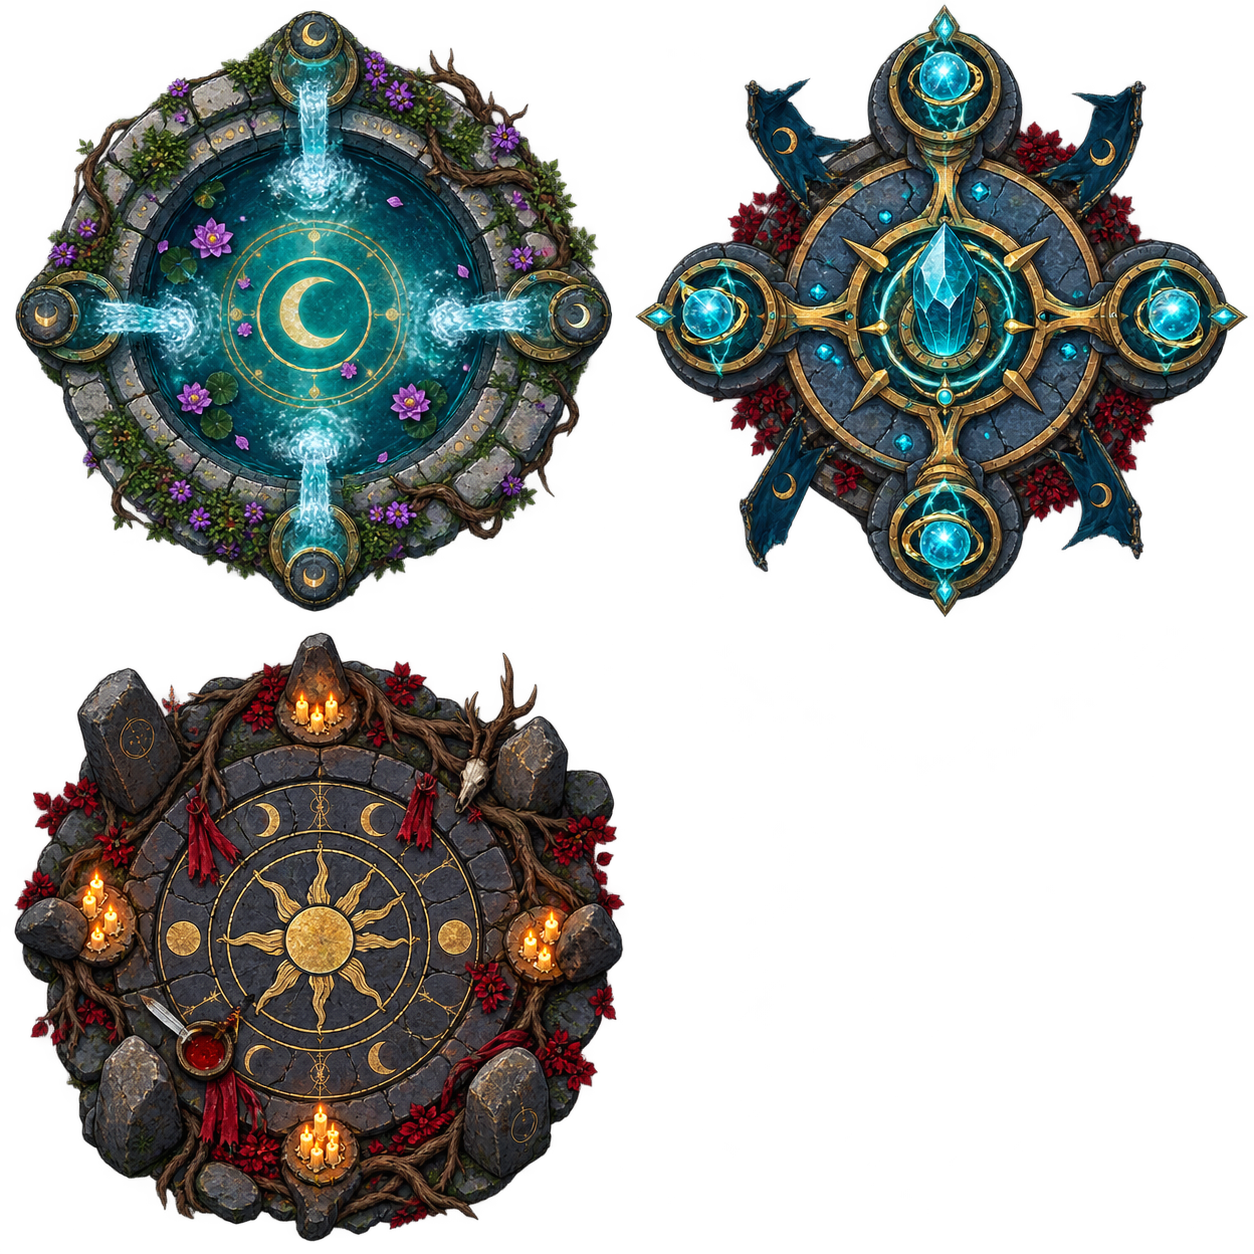
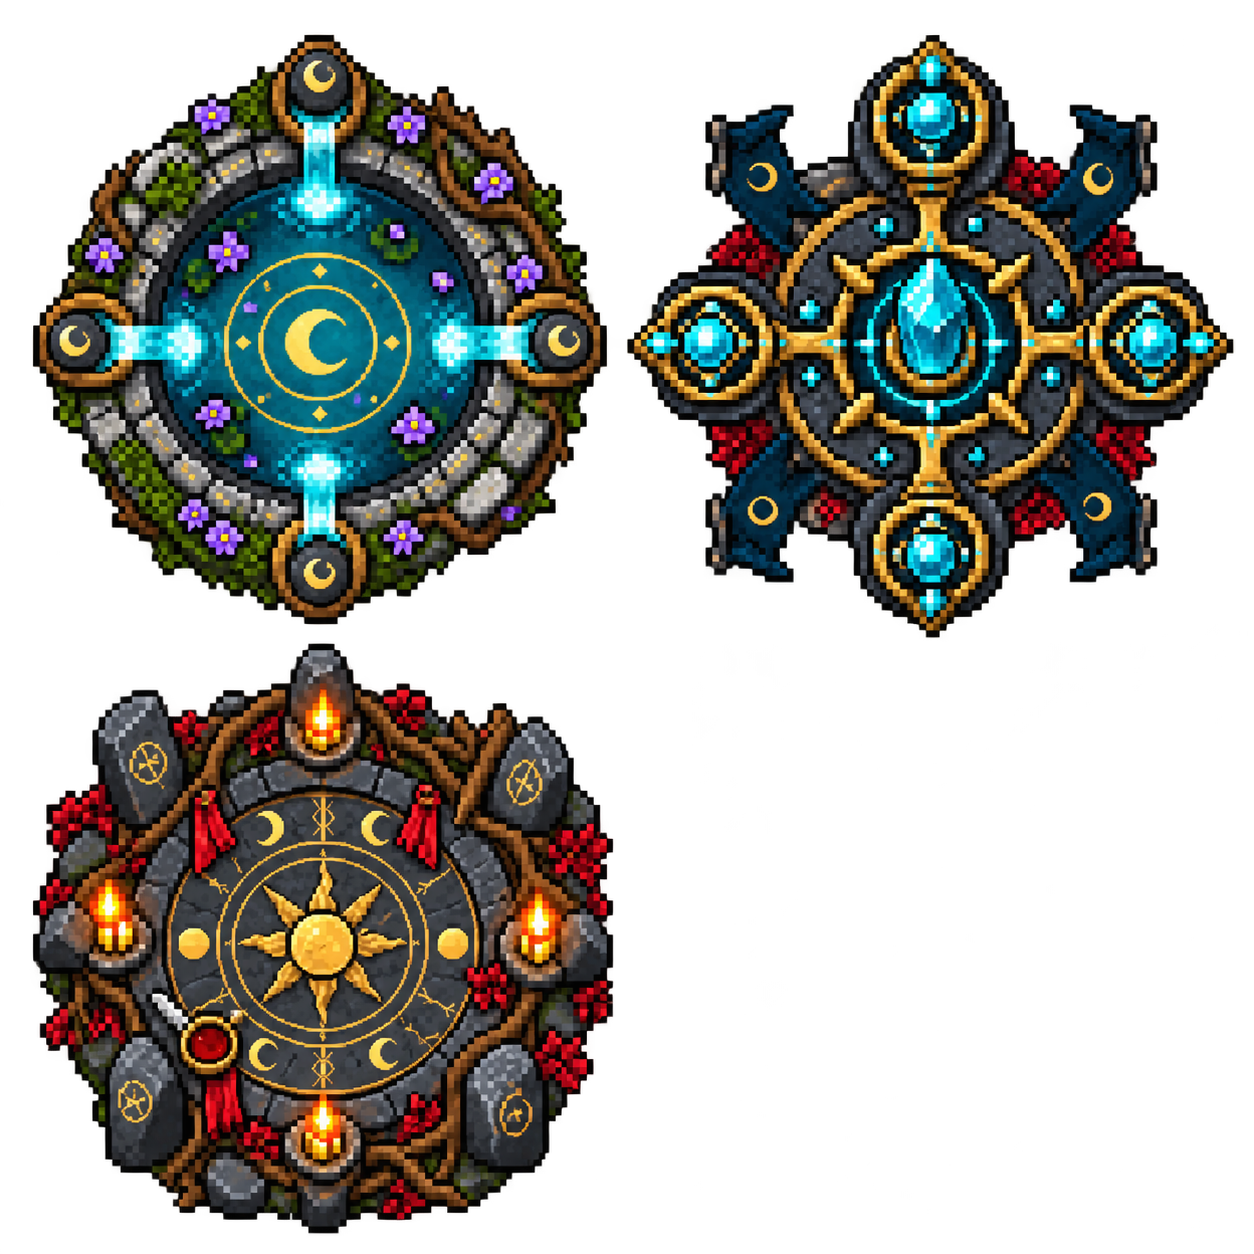
Shift runtime combat art to aligned pixel sprites

diff --git a/src/game/renderer.ts b/src/game/renderer.ts
@@ -8,13 +8,13 @@ interface Effect {
 }
 
 const TAU = Math.PI * 2
-const NORTH_FACING_SPRITE_OFFSET = Math.PI / 2
+const EAST_FACING_SPRITE_OFFSET = 0
 const CHARACTER_SPRITE_INDEX: Record<PlayerState['character'], number> = { vesper: 0, cinder: 1, bastion: 2, warden: 3 }
 const ENEMY_SPRITE_INDEX: Record<EnemyState['type'], number> = { thrall: 4, skitter: 5, spitter: 6, bulwark: 7, tollkeeper: 8 }
 
-// The production atlas is drawn facing north. Canvas angles use east as zero,
-// so this offset keeps every sprite centered and freely rotatable through 360°.
-export const spriteRotationForDirection = (direction: number) => direction + NORTH_FACING_SPRITE_OFFSET
+// Every runtime sprite is authored facing east, which is also canvas angle zero.
+// Keeping that contract explicit prevents character art and aim vectors drifting apart.
+export const spriteRotationForDirection = (direction: number) => direction - EAST_FACING_SPRITE_OFFSET
 
 export class GameRenderer {
   private readonly canvas: HTMLCanvasElement
@@ -27,6 +27,7 @@ export class GameRenderer {
   private lastFrame = performance.now()
   private lastEventId = 0
   private effects: Effect[] = []
+  private readonly enemyFacing = new Map<number, number>()
   private readonly spriteAtlas = new Image()
   private readonly structureAtlas = new Image()
   private readonly groundTexture = new Image()
@@ -161,7 +162,7 @@ export class GameRenderer {
         context.beginPath()
         context.arc(structure.x, structure.y, structure.radius * 1.18, 0, TAU)
         context.fill()
-        this.drawAtlasSprite(this.structureAtlas, 2, 2, art.index, structure.x, structure.y, art.size, art.size)
+        this.drawAtlasSprite(this.structureAtlas, 2, 2, art.index, structure.x, structure.y, art.size, art.size, 0, true)
         this.drawLabel(structure.x, structure.y + structure.radius + 18, art.label, structure.type === 'ritual-stone' ? '#e9d68f' : '#9fe4d5')
         continue
       }
@@ -251,7 +252,13 @@ export class GameRenderer {
       const color = burning ? '#ff735c' : enemy.slow > 0 ? '#9bd6ff' : '#e8eee7'
       if (this.spriteAtlas.complete && this.spriteAtlas.naturalWidth > 0) {
         const size = enemy.type === 'tollkeeper' ? 172 : enemy.type === 'bulwark' ? 116 : enemy.type === 'spitter' ? 72 : 78
-        const rotation = spriteRotationForDirection(Math.atan2(enemy.vy, enemy.vx))
+        const movement = Math.hypot(enemy.vx, enemy.vy)
+        const facing = movement > 0.1 ? Math.atan2(enemy.vy, enemy.vx) : (this.enemyFacing.get(enemy.id) ?? 0)
+        if (movement > 0.1) this.enemyFacing.set(enemy.id, facing)
+        const rotation = spriteRotationForDirection(facing)
+        const motion = Math.min(1, movement / Math.max(1, enemy.speed))
+        const stride = Math.sin(performance.now() / 88 + enemy.id * 1.73)
+        const bob = motion > 0.04 ? Math.abs(stride) * 1.8 : Math.sin(performance.now() / 310 + enemy.id) * 0.35
         context.save()
         context.fillStyle = 'rgba(0, 0, 0, .46)'
         context.beginPath()
@@ -259,7 +266,18 @@ export class GameRenderer {
         context.fill()
         context.shadowColor = burning ? '#ff593d' : enemy.slow > 0 ? '#82ceff' : enemy.type === 'tollkeeper' ? '#ef375e' : 'rgba(0,0,0,0)'
         context.shadowBlur = burning || enemy.slow > 0 ? 20 : enemy.type === 'tollkeeper' ? 16 : 0
-        this.drawAtlasSprite(this.spriteAtlas, 3, 3, ENEMY_SPRITE_INDEX[enemy.type], enemy.x, enemy.y, size, size, rotation)
+        this.drawAtlasSprite(
+          this.spriteAtlas,
+          3,
+          3,
+          ENEMY_SPRITE_INDEX[enemy.type],
+          enemy.x,
+          enemy.y - bob,
+          size * (1 - stride * 0.016 * motion),
+          size * (1 + stride * 0.022 * motion),
+          rotation,
+          true,
+        )
         context.restore()
         if (enemy.type === 'tollkeeper') {
           context.strokeStyle = `rgba(239, 113, 142, ${0.28 + Math.sin(enemy.phase * 2) * 0.08})`
@@ -348,6 +366,13 @@ export class GameRenderer {
       if (this.spriteAtlas.complete && this.spriteAtlas.naturalWidth > 0) {
         const local = player.id === localPlayerId
         const size = player.character === 'bastion' ? 94 : 86
+        const motion = Math.min(1, Math.hypot(player.vx, player.vy) / 170)
+        const spriteIndex = CHARACTER_SPRITE_INDEX[player.character]
+        const stride = Math.sin(performance.now() / 86 + spriteIndex * 1.91)
+        const bob = player.downed ? 0 : motion > 0.03 ? Math.abs(stride) * 2 : Math.sin(performance.now() / 340 + spriteIndex) * 0.45
+        const recoil = player.fireCooldown > 0 && !player.downed ? Math.min(2.4, player.fireCooldown * 14) : 0
+        const spriteX = player.x - Math.cos(player.aim) * recoil
+        const spriteY = player.y - Math.sin(player.aim) * recoil - bob
         context.save()
         context.fillStyle = 'rgba(0, 0, 0, .48)'
         context.beginPath()
@@ -369,9 +394,20 @@ export class GameRenderer {
         }
         context.globalAlpha = player.downed ? 0.48 : 1
         context.shadowColor = player.color
-        context.shadowBlur = local ? 18 : 9
+        context.shadowBlur = local ? 12 : 6
         const rotation = spriteRotationForDirection(player.aim)
-        this.drawAtlasSprite(this.spriteAtlas, 3, 3, CHARACTER_SPRITE_INDEX[player.character], player.x, player.y, size, size, rotation)
+        this.drawAtlasSprite(
+          this.spriteAtlas,
+          3,
+          3,
+          spriteIndex,
+          spriteX,
+          spriteY,
+          size * (1 - stride * 0.015 * motion),
+          size * (1 + stride * 0.02 * motion),
+          rotation,
+          true,
+        )
         context.restore()
         if (player.downed) {
           context.strokeStyle = '#ef718e'
@@ -505,6 +541,7 @@ export class GameRenderer {
     width: number,
     height: number,
     rotation = 0,
+    pixelated = false,
   ) {
     const context = this.context
     const sourceWidth = image.naturalWidth / columns
@@ -512,6 +549,7 @@ export class GameRenderer {
     const column = index % columns
     const row = Math.floor(index / columns)
     context.save()
+    if (pixelated) context.imageSmoothingEnabled = false
     context.translate(x, y)
     context.rotate(rotation)
     context.drawImage(

diff --git a/tests/engine.test.ts b/tests/engine.test.ts
@@ -48,15 +48,15 @@ describe('GameEngine', () => {
 
 describe('top-down sprite rotation', () => {
   it.each([
-    ['east', 0, Math.PI / 2],
-    ['south', Math.PI / 2, Math.PI],
-    ['west', Math.PI, Math.PI * 1.5],
-    ['north', -Math.PI / 2, 0],
-  ])('rotates a north-facing atlas sprite toward %s', (_label, direction, expected) => {
+    ['east', 0, 0],
+    ['south', Math.PI / 2, Math.PI / 2],
+    ['west', Math.PI, Math.PI],
+    ['north', -Math.PI / 2, -Math.PI / 2],
+  ])('rotates an east-facing atlas sprite toward %s', (_label, direction, expected) => {
     expect(spriteRotationForDirection(direction)).toBeCloseTo(expected)
   })
 
   it('preserves arbitrary analog aim angles without snapping', () => {
-    expect(spriteRotationForDirection(0.731)).toBeCloseTo(0.731 + Math.PI / 2)
+    expect(spriteRotationForDirection(0.731)).toBeCloseTo(0.731)
   })
 })

diff --git a/README.md b/README.md
@@ -14,7 +14,7 @@ An original 1–4 player browser survival roguelite prototype inspired by the ac
 
 ## Art direction
 
-The interface and game world use an original moonlit dark-fantasy visual system: painterly hunter portraits, strict orthographic bird's-eye character, creature, boss, and structure sprites, illustrated weapons, perk medallions, textured terrain, inked framing, and restrained gold/teal/crimson lighting. Every moving gameplay sprite is authored facing north around a centered pivot, then rotated continuously by the canvas renderer to follow aim or movement through 360 degrees. The production-ready WebP atlases live in `public/art`; CSS and the canvas renderer share those assets so the landing page, lobby, HUD, upgrade choices, and battlefield feel like one world.
+The interface uses original painterly dark-fantasy illustration, while the battlefield deliberately switches to crisp, limited-palette pixel art so static sprites remain readable in motion. Characters, creatures, bosses, and interactive structures share hard-edged runtime atlases. Every moving model uses a centered orthographic sprite authored facing east—the canvas angle-zero direction—then rotates continuously to follow aim or movement through 360 degrees. Lightweight bob, stride, and recoil transforms add motion without requiring large animation sheets. The production-ready WebP atlases live in `public/art`; shared colors and silhouettes keep the illustrated menus and pixel-art combat grounded in one world.
 
 ## Multiplayer model
 
